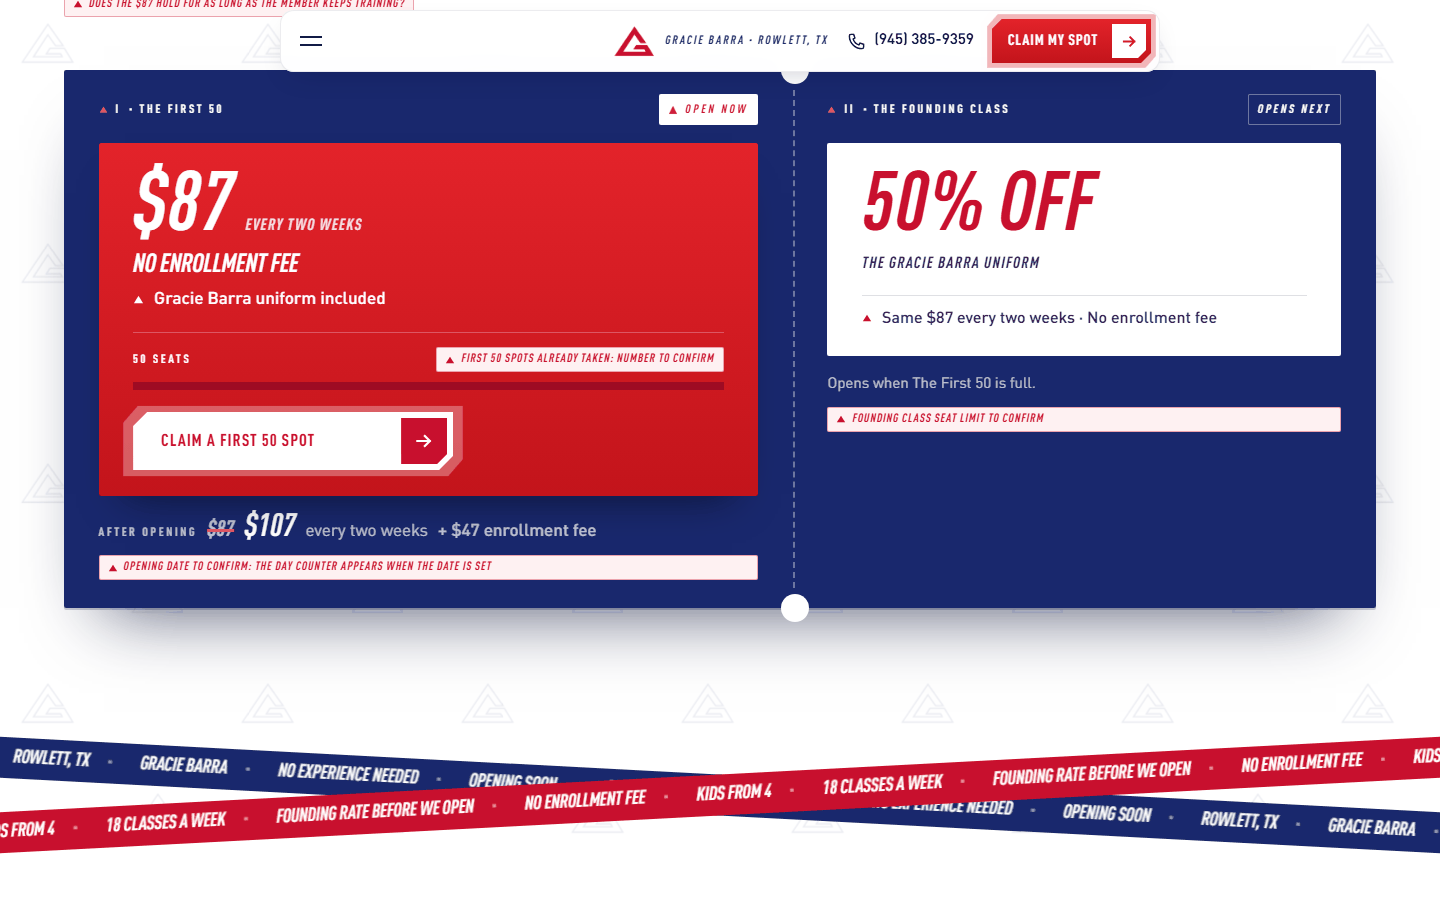
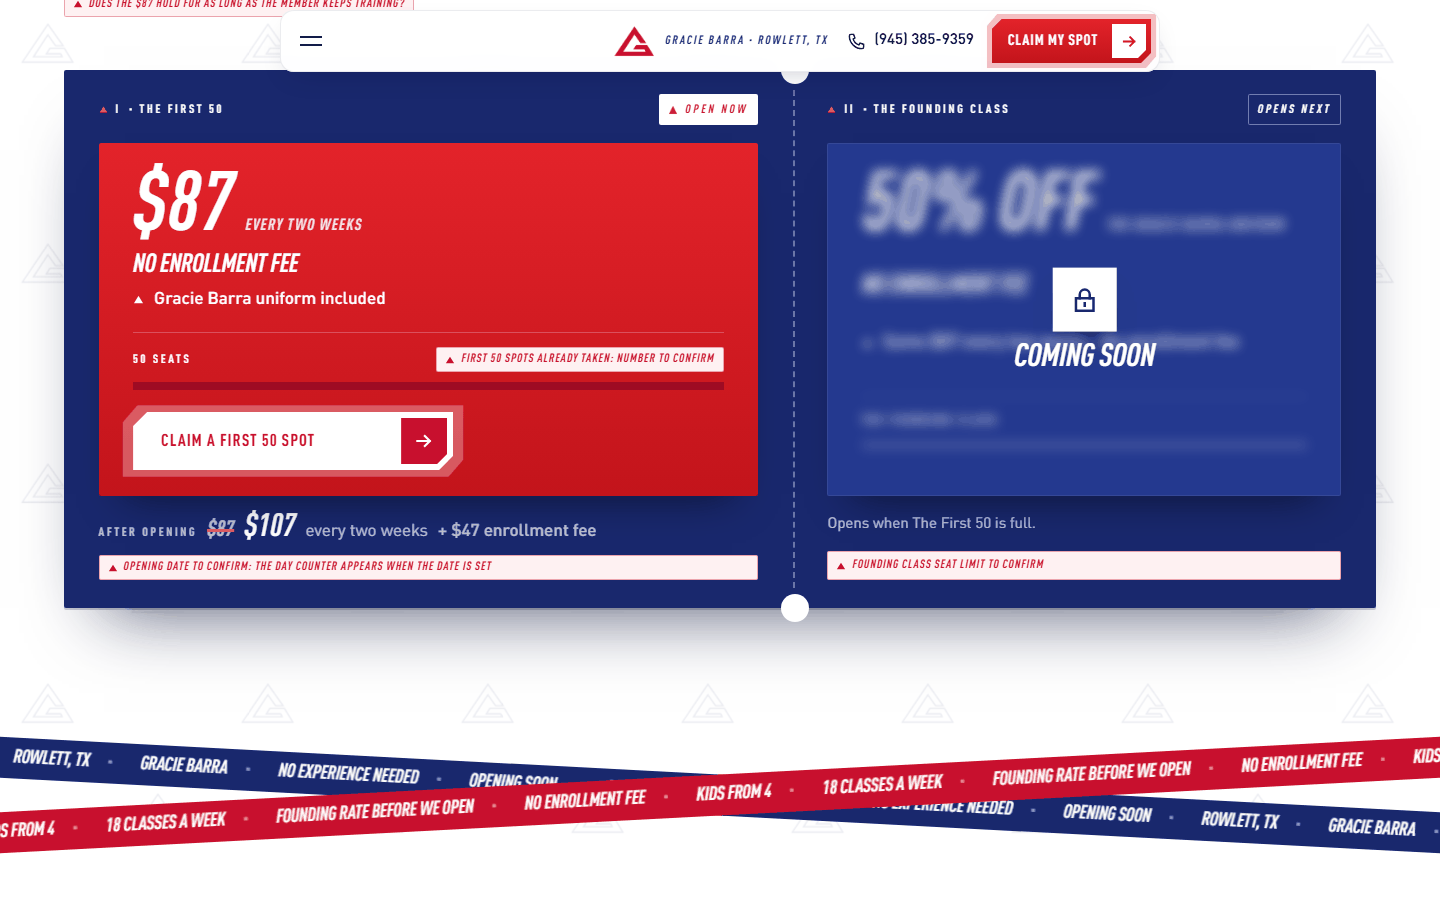
feat(offer): tier II is the same box as tier I, lighter navy, blurred, coming soon + lock

Changed region(s): [[0.5625, 0.1556, 0.9375, 0.6533], [0.8438, 0.9022, 0.875, 0.9333], [0.125, 0.84, 0.1562, 0.8711]]

diff --git a/src/components/sections/Offer.tsx b/src/components/sections/Offer.tsx
@@ -13,8 +13,9 @@
                                    (picote com os dois furos)
 
    O corpo é marinho; a metade I leva o card vermelho (degradê do botão)
-   com o botão BRANCO de seta vermelha; a metade II é o canhoto: card
-   branco, nítido, com o perk dele como número grande. O carimbo de dias
+   com o botão BRANCO de seta vermelha; a metade II é o canhoto: o MESMO
+   quadrado do card I, em marinho um degrau mais claro, com o conteúdo
+   borrado e "Coming soon" + cadeado no centro (pedido do Adryan). O carimbo de dias
    até a abertura morde o canto do card I quando a data existir; sem data,
    vira pendência no pé. No celular as metades empilham e o picote fica
    horizontal.
@@ -27,7 +28,7 @@ import { useInView } from '@/motion/inview'
 import { trackViewContent } from '@/track'
 import { Cta } from '../ui/Cta'
 import { Eyebrow } from '../ui/Eyebrow'
-import { Tri } from '../ui/Icons'
+import { Lock, Tri } from '../ui/Icons'
 import { Lines } from '../ui/Lines'
 import { Pending } from '../ui/Pending'
 import { Stamp } from '../ui/Stamp'
@@ -143,20 +144,42 @@ function OpenHalf({ tier, days }: { tier: Tier; days: number | null }) {
   )
 }
 
-/** O canhoto: o grupo seguinte. Nítido — o número grande é o perk, não o preço (que é o mesmo). */
+/** O canhoto: o grupo seguinte. Mesmo quadrado do card I, em marinho mais claro,
+    conteúdo borrado e "Coming soon" + cadeado no centro. O leitor de tela recebe o
+    conteúdo inteiro em sr-only (o borrado e o selo do centro são aria-hidden). */
 function NextHalf({ tier }: { tier: Tier }) {
   return (
     <div className="pass__half pass__half--next">
       <HalfHead tier={tier} pill={offer.lockedPill} tone="next" />
       <article className="tk tk--next rise" aria-label={`${tier.order} · ${tier.label}`}>
-        <p className="tk__big">
-          <span className="tk__amount d">{tier.perk.big ?? tier.perk.short}</span>
-          {tier.perk.bigSub ? <span className="tk__per">{tier.perk.bigSub}</span> : null}
+        <p className="sr-only">
+          {offer.comingSoon}. {tier.perk.title}. {offer.lockedSamePrice}.
         </p>
-        <p className="tk__same">
-          <Tri />
-          <span>{offer.lockedSamePrice}</span>
-        </p>
+        <div className="tk__blur" aria-hidden="true">
+          <p className="tk__price">
+            <span className="tk__amount d">{tier.perk.big ?? tier.perk.short}</span>
+            {tier.perk.bigSub ? <span className="tk__per">{tier.perk.bigSub}</span> : null}
+          </p>
+          <p className="tk__enroll d">{offer.enrollmentLine}</p>
+          <p className="tk__perk">
+            <Tri />
+            <span>{offer.lockedSamePrice}</span>
+          </p>
+          <div className="tk__seats">
+            <div className="tk__seatrow label">
+              <span>{tier.label}</span>
+            </div>
+            <div className="tk__bar">
+              <span />
+            </div>
+          </div>
+        </div>
+        <span className="tk__soon" aria-hidden="true">
+          <span className="tk__lock">
+            <Lock />
+          </span>
+          <span className="tk__soont d">{offer.comingSoon}</span>
+        </span>
       </article>
       <div className="pass__foot">
         <p className="pass__note">{tier.note}</p>

diff --git a/src/styles/sections.css b/src/styles/sections.css
@@ -1022,40 +1022,54 @@ html.motion .pass__pill--open i {
   background: linear-gradient(180deg, var(--btn-top), var(--btn-bottom));
   box-shadow: 0 24px 40px -26px rgb(0 0 0 / 0.6);
 }
+/* o canhoto: o mesmo quadrado do card I, marinho um degrau mais claro, conteúdo
+   borrado; o único nítido é o selo do centro (cadeado + "Coming soon") */
 .tk--next {
-  align-content: center;
-  background: var(--paper);
-  color: var(--ink);
+  overflow: hidden;
+  color: var(--paper);
+  background: var(--navy-2);
+  box-shadow: 0 24px 40px -26px rgb(0 0 0 / 0.6), inset 0 0 0 1px rgb(var(--paper-rgb) / 0.08);
 }
-.tk__big {
+.tk__blur {
   display: grid;
-  gap: 6px;
+  gap: 8px;
+  filter: blur(6px);
+  opacity: 0.85;
+  pointer-events: none;
+  user-select: none;
 }
-.tk--next .tk__amount {
-  color: var(--red);
+.tk--next .tk__bar {
+  background: rgb(var(--paper-rgb) / 0.18);
 }
-.tk--next .tk__per {
-  color: var(--ink-2);
-  opacity: 1;
+.tk__soon {
+  position: absolute;
+  left: 50%;
+  top: 50%;
+  display: grid;
+  justify-items: center;
+  gap: 12px;
+  transform: translate(-50%, -50%);
+  text-align: center;
 }
-.tk__same {
-  display: flex;
-  align-items: flex-start;
-  gap: 10px;
-  margin-top: 10px;
-  padding-top: 12px;
-  border-top: 1px solid var(--line);
-  font-size: 1rem;
-  line-height: 1.4;
-  font-weight: 500;
-  color: var(--ink-2);
+.tk__lock {
+  display: grid;
+  place-items: center;
+  width: 64px;
+  height: 64px;
+  background: var(--paper);
+  color: var(--navy);
+  box-shadow: 0 18px 30px -16px rgb(0 0 0 / 0.6);
 }
-.tk__same svg {
-  width: 10px;
-  height: 10px;
-  flex: none;
-  margin-top: 0.35em;
-  color: var(--red);
+.tk__lock svg {
+  width: 30px;
+  height: 30px;
+}
+.tk__soont {
+  font-style: italic;
+  font-size: clamp(1.5rem, 6vw, 2rem);
+  letter-spacing: 0.02em;
+  color: var(--paper);
+  white-space: nowrap;
 }
 .tk__price {
   display: flex;
@@ -1188,14 +1202,25 @@ html.motion .pass__half--next .rise {
   --i: 1;
 }
 
+@media (max-width: 899px) {
+  .tk--next {
+    min-height: 260px;
+  }
+}
 @media (min-width: 900px) {
   /* desktop: as metades lado a lado, o picote vertical, os furos em cima e embaixo */
   .pass {
     grid-template-columns: minmax(0, 1.25fr) 0 minmax(0, 1fr);
+    grid-template-rows: auto auto auto;
   }
   .pass__half {
+    grid-row: 1 / span 3;
+    grid-template-rows: subgrid;
     gap: 18px;
     padding: 24px clamp(20px, calc(var(--u) * 2.4), 40px) 28px;
+  }
+  .pass__perf {
+    grid-row: 1 / -1;
   }
   .pass__perf {
     width: 0;
@@ -1219,9 +1244,6 @@ html.motion .pass__half--next .rise {
   }
   .tk {
     padding: 28px clamp(22px, calc(var(--u) * 2.4), 40px) 26px;
-  }
-  .tk--next {
-    height: 100%;
   }
   .tk__stampwrap {
     right: -28px;

diff --git a/src/components/ui/Icons.tsx b/src/components/ui/Icons.tsx
@@ -68,6 +68,15 @@ export const Check = ({ className }: P) => (
   </svg>
 )
 
+/** Cadeado: corpo retangular e a alça em arco, no traço da casa. */
+export const Lock = ({ className }: P) => (
+  <svg {...base} className={className} strokeWidth={2}>
+    <path d="M5 11h14v10H5Z" />
+    <path d="M8 11V8a4 4 0 0 1 8 0v3" />
+    <path d="M12 15v2" />
+  </svg>
+)
+
 export const Close = ({ className }: P) => (
   <svg {...base} className={className} strokeWidth={2}>
     <path d="M6 6l12 12M18 6L6 18" />

diff --git a/src/styles/tokens.css b/src/styles/tokens.css
@@ -27,6 +27,7 @@
   --red-glow: #f2213b; /* vermelho vivo para DISPLAY sobre o marinho (4,3:1) e a luz dos cards */
   --red-wash: #fef1f2; /* fundo do marcador de pendência */
   --navy: #19286d; /* azul-marinho GB: footer, pedido, pattern */
+  --navy-2: #24398f; /* marinho um degrau mais claro: o card travado dentro do ingresso */
   --night: #0b1233; /* a única banda escura do corpo (abertura) */
   --on-dark: #f4f5fa;
   --on-dark-2: rgb(244 245 250 / 0.74);

diff --git a/src/data/site.ts b/src/data/site.ts
@@ -195,6 +195,7 @@ export const offer = {
   ticketCta: 'Claim a First 50 spot',
   /** O canhoto II: o preço é o mesmo; o que muda é o perk. */
   lockedSamePrice: 'Same $87 every two weeks · No enrollment fee',
+  comingSoon: 'Coming soon',
   priceLine: '$87',
   pricePer: 'every two weeks',
   enrollmentLine: 'No enrollment fee',

diff --git a/public/memory/design-decisions.md b/public/memory/design-decisions.md
@@ -113,3 +113,4 @@ A tabela viva é a §20 do `prd-GBR-001.md` (23 itens). Resumo do que trava o mo
 - **H2 da oferta** passa a ser só "Founding Members" (a frase "Join before we open. Pay less than everyone who joins after." ficou só na cena 2 do hero, sem repetir). O eyebrow da oferta vira "The founding offer" (rótulo já usado no menu e no footer) para não empilhar "Founding Members" duas vezes.
 - **A oferta vira UM ingresso** na largura da seção (pedido do Adryan: são só dois grupos, não três cartões no padrão da Collective). Corpo marinho com duas metades e o picote entre elas (tracejado + dois furos): a metade I traz o card vermelho com $87, no enrollment fee, uniforme, vagas e o botão, e a comparação "After opening" no pé; a metade II é o canhoto travado (card borrado + triângulo marinho, "Opens next", nota e a pendência do limite de vagas). No celular as metades empilham e o picote fica horizontal. O carimbo de dias morde o card I quando houver data; sem data, vira pendência no pé.
 - **A oferta vira UM ingresso** na largura da seção (pedido do Adryan: são só dois grupos, não três cartões no padrão da Collective). Corpo marinho com duas metades e o picote entre elas (tracejado + dois furos). Metade I: card vermelho com $87, no enrollment fee, uniforme incluído, vagas e o botão; a comparação "After opening" no pé. Metade II (o canhoto): **nítida, sem borrão nem cadeado** — o Adryan apontou que borrar um card com o mesmo preço não diz nada; o número grande do canhoto é o perk ("50% off · the Gracie Barra uniform") com "Same $87 every two weeks · No enrollment fee" embaixo, e no pé "Opens when The First 50 is full" + a pendência do limite de vagas. No celular as metades empilham e o picote fica horizontal. O carimbo de dias morde o card I quando houver data; sem data, vira pendência no pé.
+- **Canhoto II revisto pelo Adryan:** volta a ser o MESMO quadrado do card I (as duas metades em subgrid no desktop, então os dois cards têm a mesma altura), em `--navy-2` (marinho um degrau mais claro, novo token), com o conteúdo borrado a 6px e "Coming soon" + cadeado no centro. O texto inteiro vai em `sr-only`; o borrado e o selo do centro são `aria-hidden`.
